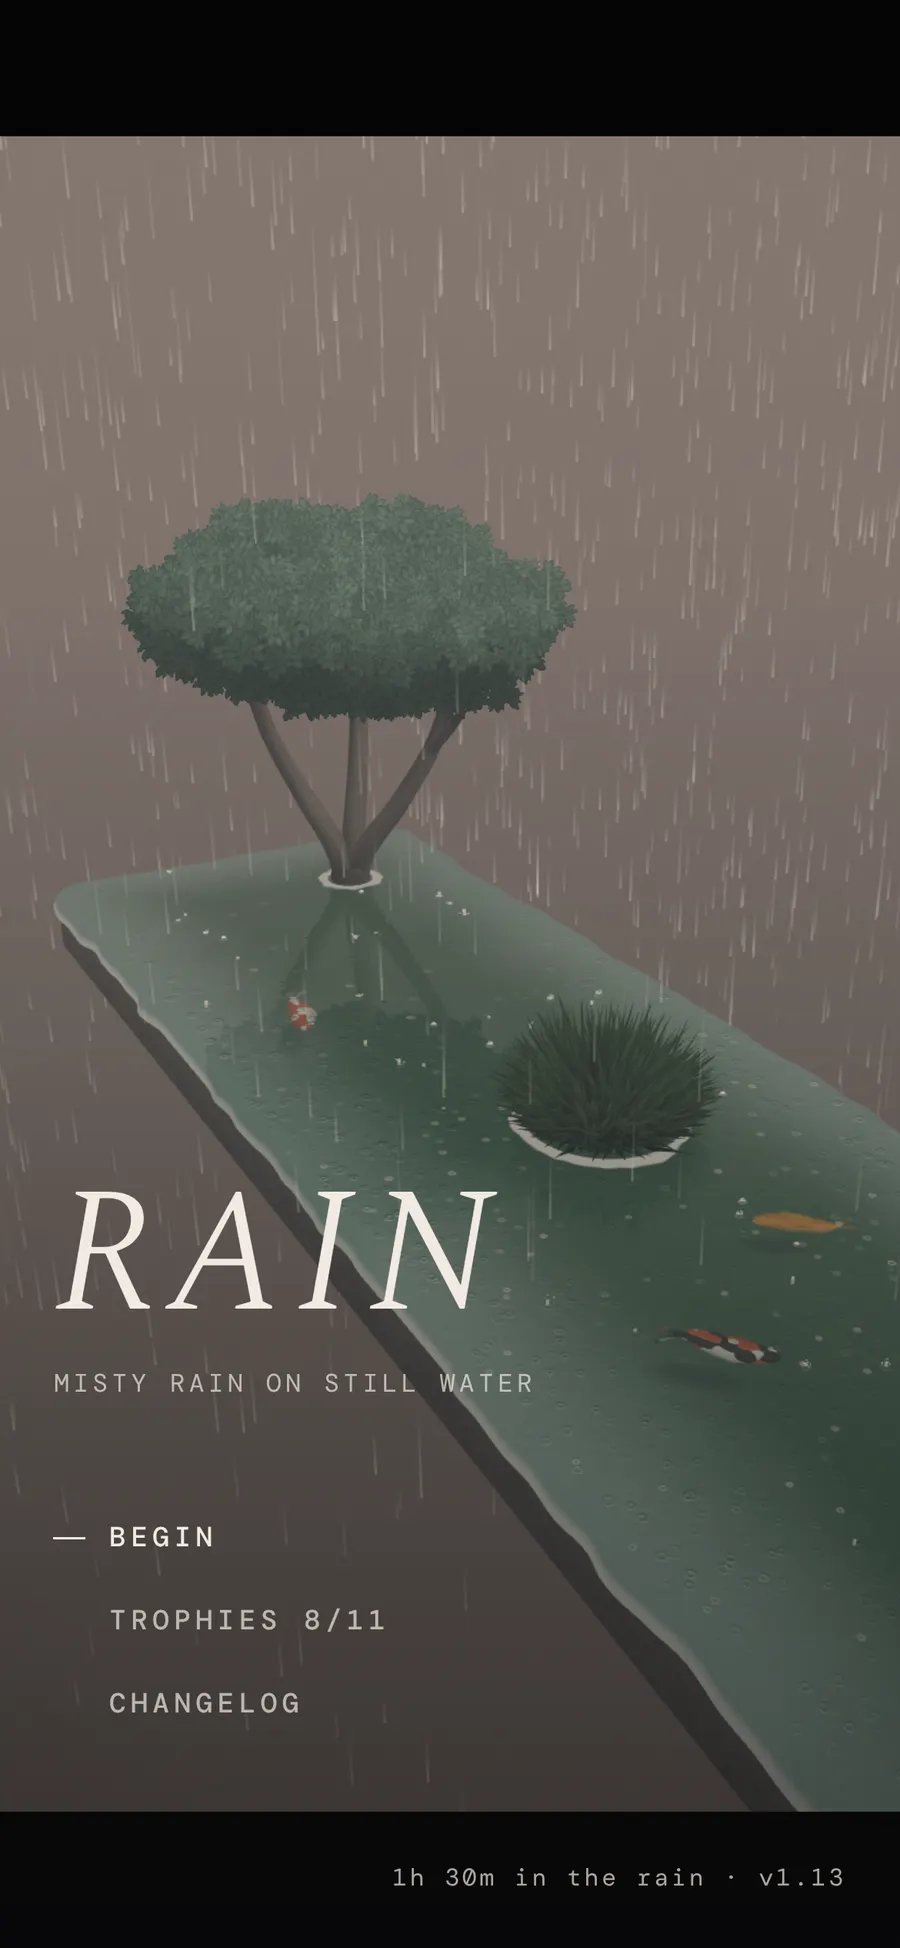
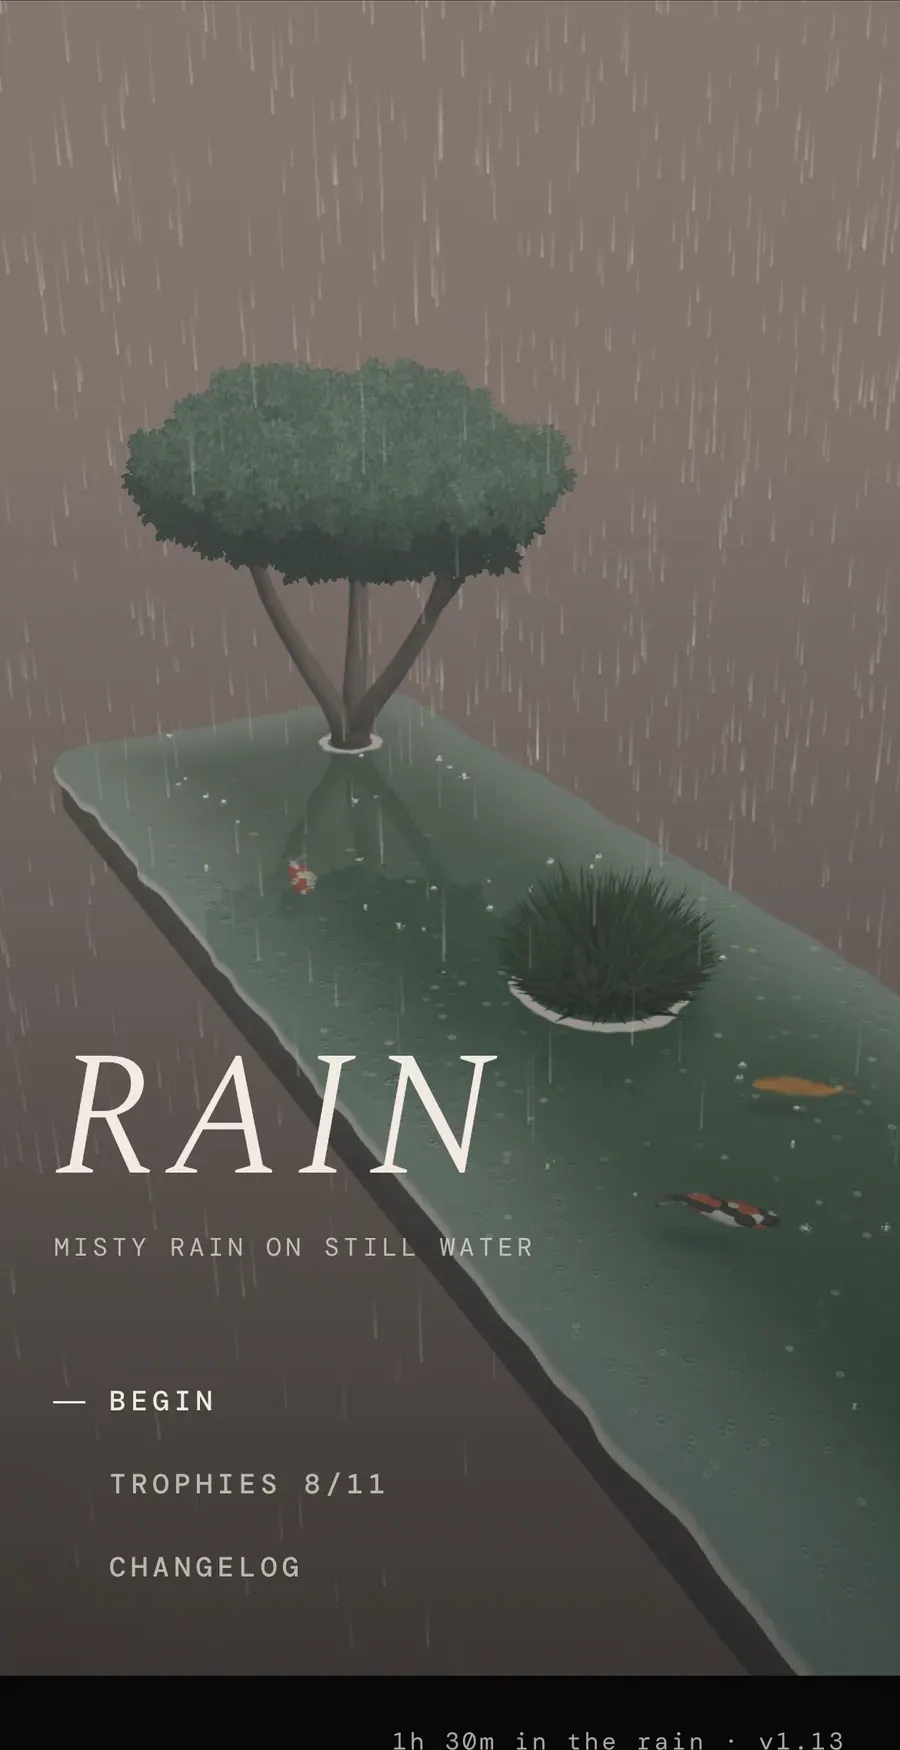
Crop the RAIN letterbox and keep four work-row shots.
The title still and the phone frames that carried black bars are trimmed to the picture. The work row keeps the trailer, dusk, one phone shot, and the koi scene, spaced apart.

diff --git a/src/lib/home-grid.ts b/src/lib/home-grid.ts
@@ -33,7 +33,7 @@ export const HOME_GRID_PIECES: readonly HomeGridPiece[] = [
     category: 'experiments',
     src: '/showcase/rain.webp',
     width: 1920,
-    height: 1080,
+    height: 940,
     videoSrc: '/showcase/rain-loop.mp4',
     projectSlug: 'rain',
   }),
@@ -56,126 +56,6 @@ export const HOME_GRID_PIECES: readonly HomeGridPiece[] = [
     width: 1080,
     height: 1080,
     videoSrc: '/images/projects/skiing-loop.mp4',
-  }),
-  piece({
-    id: 'rain-desktop-dusk',
-    title: 'RAIN dusk',
-    year: '2026',
-    category: 'experiments',
-    src: '/images/optimized/projects/rain/desktop-dusk.webp',
-    width: 1600,
-    height: 900,
-    projectSlug: 'rain',
-  }),
-  piece({
-    id: 'rain-overview',
-    title: 'RAIN island',
-    year: '2026',
-    category: 'experiments',
-    src: '/images/optimized/projects/rain/overview.webp',
-    width: 1600,
-    height: 900,
-    projectSlug: 'rain',
-  }),
-  piece({
-    id: 'rain-koi-feeding',
-    title: 'RAIN koi',
-    year: '2026',
-    category: 'experiments',
-    src: '/images/optimized/projects/rain/koi-feeding.webp',
-    width: 1600,
-    height: 900,
-    projectSlug: 'rain',
-  }),
-  piece({
-    id: 'rain-tap-waves',
-    title: 'RAIN waves',
-    year: '2026',
-    category: 'experiments',
-    src: '/images/optimized/projects/rain/tap-waves.webp',
-    width: 1600,
-    height: 900,
-    projectSlug: 'rain',
-  }),
-  piece({
-    id: 'rain-scene-dusk',
-    title: 'RAIN evening',
-    year: '2026',
-    category: 'experiments',
-    src: '/images/optimized/projects/rain/scene-dusk.webp',
-    width: 1600,
-    height: 900,
-    projectSlug: 'rain',
-  }),
-  piece({
-    id: 'rain-phone-title',
-    title: 'RAIN phone',
-    year: '2026',
-    category: 'experiments',
-    src: '/images/optimized/projects/rain/phone-title.webp',
-    width: 900,
-    height: 1948,
-    projectSlug: 'rain',
-  }),
-  piece({
-    id: 'rain-phone-play',
-    title: 'RAIN play',
-    year: '2026',
-    category: 'experiments',
-    src: '/images/optimized/projects/rain/phone-play.webp',
-    width: 900,
-    height: 1948,
-    projectSlug: 'rain',
-  }),
-  piece({
-    id: 'rain-phone-dusk',
-    title: 'RAIN phone dusk',
-    year: '2026',
-    category: 'experiments',
-    src: '/images/optimized/projects/rain/phone-dusk.webp',
-    width: 900,
-    height: 1948,
-    projectSlug: 'rain',
-  }),
-  piece({
-    id: 'rain-phone-trophies',
-    title: 'RAIN trophies',
-    year: '2026',
-    category: 'experiments',
-    src: '/images/optimized/projects/rain/phone-trophies.webp',
-    width: 900,
-    height: 1948,
-    projectSlug: 'rain',
-  }),
-  piece({
-    id: 'rain-drips',
-    title: 'RAIN drips',
-    year: '2026',
-    category: 'experiments',
-    src: '/images/optimized/projects/rain/drips.webp',
-    width: 1080,
-    height: 1920,
-    projectSlug: 'rain',
-  }),
-  piece({
-    id: 'rain-tall-dusk',
-    title: 'RAIN tall dusk',
-    year: '2026',
-    category: 'experiments',
-    src: '/images/optimized/projects/rain/tall-dusk.webp',
-    width: 1080,
-    height: 1920,
-    projectSlug: 'rain',
-  }),
-  piece({
-    id: 'rain-glide',
-    title: 'RAIN glide',
-    year: '2026',
-    category: 'experiments',
-    src: '/images/optimized/projects/rain/glide.webp',
-    width: 1080,
-    height: 1920,
-    projectSlug: 'rain',
   }),
   piece({
     id: 'mentalhealth-minisite',
@@ -206,6 +86,16 @@ export const HOME_GRID_PIECES: readonly HomeGridPiece[] = [
     src: '/images/projects/alpine-01.jpeg',
     width: 1024,
     height: 1536,
+  }),
+  piece({
+    id: 'rain-desktop-dusk',
+    title: 'RAIN dusk',
+    year: '2026',
+    category: 'experiments',
+    src: '/images/optimized/projects/rain/desktop-dusk.webp',
+    width: 1600,
+    height: 900,
+    projectSlug: 'rain',
   }),
   piece({
     id: 'wander-utah',
@@ -267,6 +157,16 @@ export const HOME_GRID_PIECES: readonly HomeGridPiece[] = [
     projectSlug: 'porsche-app',
   }),
   piece({
+    id: 'rain-phone-play',
+    title: 'RAIN phone',
+    year: '2026',
+    category: 'experiments',
+    src: '/images/optimized/projects/rain/phone-play.webp',
+    width: 900,
+    height: 1948,
+    projectSlug: 'rain',
+  }),
+  piece({
     id: 'obsidian-vault',
     title: 'My Obsidian Vault',
     year: '2026',
@@ -323,6 +223,16 @@ export const HOME_GRID_PIECES: readonly HomeGridPiece[] = [
     width: 1200,
     height: 860,
     videoSrc: '/images/projects/path-hover.mp4',
+  }),
+  piece({
+    id: 'rain-koi-feeding',
+    title: 'RAIN koi',
+    year: '2026',
+    category: 'experiments',
+    src: '/images/optimized/projects/rain/koi-feeding.webp',
+    width: 1600,
+    height: 900,
+    projectSlug: 'rain',
   }),
   piece({
     id: 'aol-redesign',

diff --git a/src/lib/image-blur-data.ts b/src/lib/image-blur-data.ts
@@ -68,8 +68,8 @@ export const IMAGE_BLUR_DATA = {
[10 lines of base64/hex data omitted]
@@ -121,6 +121,6 @@ export const IMAGE_BLUR_DATA = {
[6 lines of base64/hex data omitted]
 } as const
